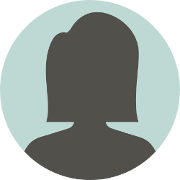
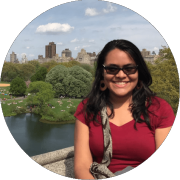
Correcciones en texto e imagenes

diff --git a/web/stories/django-girls-barranquilla-2018.rst b/web/stories/django-girls-barranquilla-2018.rst
@@ -1,6 +1,6 @@
 .. title: Taller Django Girls en Barranquilla
 .. slug: django-girls/2018/07/barranquilla 
-.. date: 2018-07-14 00:08:30 UTC-05:00
+.. date: 2018-05-24 00:18:30 UTC-05:00
 .. tags: eventos, django girls, django, taller, python, barranquilla, programación, colombia
 .. category: 
 .. link: 
@@ -24,9 +24,10 @@
 ----
 
 ¡Queremos animar a más mujeres a dominar la web! Es por eso que desde
-`Argentina en Python <https://argentinaenpython.com>`_ junto a `Python
-Barranquilla <https://www.facebook.com/pybaq/>`_ y `Django Girls Colombia 
-<https://www.facebook.com/djangogirlscolombia/>`_ estamos
+`Django Girls Colombia <https://www.facebook.com/djangogirlscolombia>`_ y 
+`Python Barranquilla <https://www.facebook.com/pybaq/>`_ con el apoyo de 
+`Argentina en Python <https://argentinaenpython.com>`_ y 
+`Python Colombia <https://python.org.co>`_ estamos
 organizando un taller en el cual podrás construir tu propio sitio web
 *desde cero* en un día. Además, vamos a utilizar todas las
 herramientas que programadores profesionales utilizan diariamente. ¡Y
@@ -86,18 +87,17 @@ mujer contigo que también realice el taller [#]_.
 ¿Dónde y cuándo?
 ----------------
 
-* Lugar: Barranquilla, Colombia.
+* Lugar: Koombea, Carrera 53 # 85 - 154, Barranquilla, Colombia.
 
 * Fecha: Sábado 14 de Julio de 2018 de 8:30hs (¡puntual!) a 19:00hs.
 
 .. template:: iframe
-   :src: https://www.openstreetmap.org/export/embed.html?bbox=-74.9329%2C10.8980%2C-74.6746%2C11.0474&amp;layer=mapnik&amp
+   :src: https://www.openstreetmap.org/export/embed.html?bbox=-74.82130944728853%2C11.005498996395493%2C-74.81269955635072%2C11.0104224411285&amp;layer=mapnik&amp;marker=11.007960729049252%2C-74.81700450181961
+   
+   
 
-.. sidebar:: Contacto
-
-   Cualquier duda que tengas sobre el taller, nos puedes escribir a
-   `argentinaenpython@gmail.com
-   <mailto:argentinaenpython@gmail.com>`_, `pythonbarranquilla@gmail.com <mailto:pythonbarranquilla@gmail.com>`_ y  `djangogirlscolombia@gmail.com <mailto:djangogirlscolombia@gmail.com>`_, para ponerte en contacto con nosotros.
+   Cualquier duda que tengas sobre el taller, nos puedes escribir a 
+   `pythonbarranquilla@gmail.com <mailto:pythonbarranquilla@gmail.com>`_ y  `djangogirlscolombia@gmail.com <mailto:djangogirlscolombia@gmail.com>`_, para ponerte en contacto con nosotros.
 
    .. image:: organizadores.png
       :align: center
@@ -128,7 +128,7 @@ Ten en cuenta que...
 
 * ... en lo posible, debes llevar un extensor de corriente.
 
-* ... agrega la dirección argentinaenpython@gmail.com a tu libreta
+* ... agrega la dirección djangogirlscolombia@gmail.com a tu libreta
   de direcciones así evitamos que el email llegue a *SPAM*
 
 * ... vamos a respetar las fechas publicadas en el *timeline* (línea
@@ -158,7 +158,7 @@ Timeline (*línea de tiempo*)
 
 .. class:: col-md-4
 
-   Tienes tiempo hasta el **23 de Junio** para inscribirte. Te
+   Tienes tiempo hasta el **21 de Junio** para inscribirte. Te
    recomendamos leer la paǵina de forma completa y prestar mucha
    atención en el formulario.
 
@@ -172,7 +172,7 @@ Timeline (*línea de tiempo*)
 
 .. class:: col-md-4
 
-   El **26 de Junio** anunciaremos los participantes que estaban en
+   El **4 de Julio** anunciaremos los participantes que estaban en
    LISTA DE ESPERA y que han pasado a estar **CONFIRMADOS**. Si
    estabas en LISTA DE ESPERA es un buen momento para revisar tu correo
    electrónico.
@@ -278,6 +278,17 @@ contigo para coordinar los detalles.
    :community: Python Barranquilla
    :github: https://github.com/Xaraxx
 
+.. template:: bootstrap3/django-girls-guia
+   :name: Johanna Sanchez
+   :image: guia-johanna.png
+   :place: Armenia, Colombia
+   :email: ellaquimica@gmail.com
+   :community: Argentina en Python y Django Girls Colombia
+   :web: https://argentinaenpython.com/
+   :github: https://github.com/ellaquimica/
+   :twitter: https://twitter.com/ellaquimica
+   :facebook: https://www.facebook.com/argentinaenpython
+
 .. raw:: html
 
    </div>
@@ -301,15 +312,36 @@ contigo para coordinar los detalles.
    <div class="section-guia">
 
 .. template:: bootstrap3/django-girls-guia
-   :name: Johanna Sanchez
-   :image: guia-johanna.png
-   :place: Armenia, Colombia
-   :email: ellaquimica@gmail.com
-   :community: Argentina en Python y Django Girls Colombia
-   :web: https://argentinaenpython.com/
-   :github: https://github.com/ellaquimica/
-   :twitter: https://twitter.com/ellaquimica
-   :facebook: https://www.facebook.com/argentinaenpython
+   :name: Paula Aragón
+   :image: guia-paula.png
+   :place: Barranquilla, Colombia
+   :email: paulaaragon.9@gmail.com
+   :community: Python Barranquilla
+   :github: https://github.com/pandrearro
+
+.. template:: bootstrap3/django-girls-guia
+   :name: Ana Elles
+   :image: guia-ana.png
+   :place: Cartagena, Colombia
+   :email: alelles16@gmail.com
+   :community: Python Cartagena
+   :github: https://github.com/alelles16
+
+.. template:: bootstrap3/django-girls-guia
+   :name: Sorelys Sandoval
+   :image: guia-sorelys.png
+   :place: Barranquilla, Colombia
+   :email: sorboy11@gmail.com
+   :community: Python Barranquilla
+   :github: https://github.com/sorelyss
+
+.. template:: bootstrap3/django-girls-guia
+   :name: Jorge Martinez
+   :image: guia-jorge.png
+   :place: Barranquilla
+   :community: Python Barranquilla
+   :github: https://github.com/jorgemartinezg
+   :facebook: https://www.facebook.com/jorge.martinezgomez.12
 
 .. template:: bootstrap3/django-girls-guia
    :name: Manuel Kaufmann
@@ -322,47 +354,22 @@ contigo para coordinar los detalles.
    :twitter: https://twitter.com/reydelhumo
    :facebook: https://www.facebook.com/argentinaenpython
 
-.. template:: bootstrap3/django-girls-guia
-   :name: Jorge Martinez
-   :image: guia-jorge.png
-   :place: Barranquilla
-   :community: Python Barranquilla
-   :github: https://github.com/jorgemartinezg
-   :facebook: https://www.facebook.com/jorge.martinezgomez.12
-
-.. template:: bootstrap3/django-girls-guia
-   :name: Ana Elles
-   :image: guia-ana.png
-   :place: Cartagena, Colombia
-   :email: alelles16@gmail.com
-   :community: Python Cartagena
-   :github: https://github.com/alelles16
-
-.. template:: bootstrap3/django-girls-guia
-   :name: Paula Aragón
-   :image: guia-paula.png
-   :place: Barranquilla, Colombia
-   :email: paulaaragon.9@gmail.com
-   :community: Python Barranquilla
-   :github: https://github.com/pandrearro
-
-.. template:: bootstrap3/django-girls-guia
-   :name: Sorelys Sandoval
-   :image: guia-sorelys.png
-   :place: Barranquilla, Colombia
-   :email: sorboy11@gmail.com
-   :community: Python Barranquilla
-   :github: https://github.com/sorelyss
-
 .. raw:: html
 
    </div>
 
 
+Sponsors
+---------------
+
+Estamos en la búsqueda de sponsor para este evento de inclusión social,
+por favor dejanos saber que estás interesado en apoyarnos como sponsor enviando
+un email a `djangogirlscolombia@gmail.com <mailto:djangogirlscolombia@gmail.com>`_.
+
 Con el Apoyo de 
 ---------------
 
-.. image:: sponsors.png
+.. image:: apoyan.png
    :align: center
 
 ----
